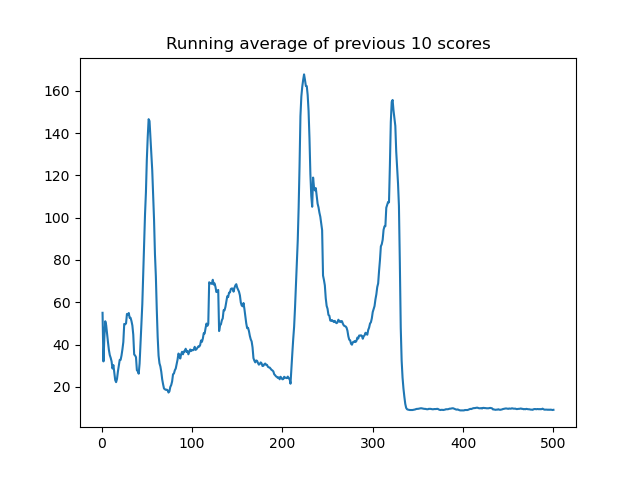
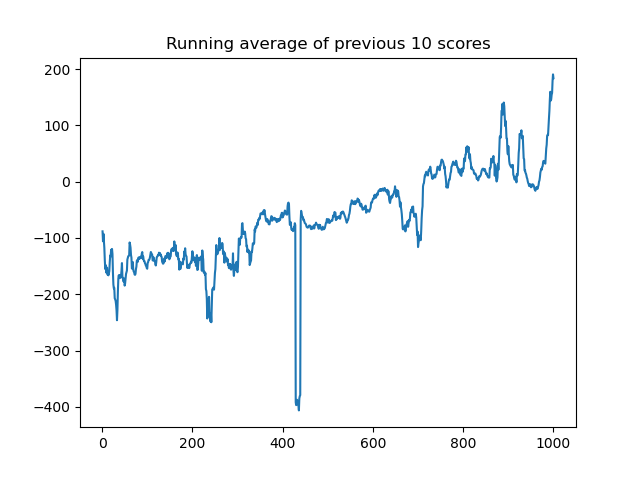
Added better functionality in main script
1. choose from many environments
2. choose whether you want the agent to learn to 'beat' the environment or run a specific number of steps
3. auto generate 1 network and 2 network networks based on environment type (fully connected, or convolutional)
4. choose what agent you want to use

diff --git a/basic_Kyle/rungym.py b/basic_Kyle/rungym.py
@@ -9,48 +9,74 @@ from Agents.agent_mc_2n import Agent_MC_2N
 from Utils.utils import plot_learning_curve
 from Utils.make_envs import make_env
 from Agents.Transition_Cache.transition_cache import Transition_Cache
-from Agents.Networks import cnn, fcx2, fcx2_2n
+from Agents.Networks import fcx2, fcx2_2n, cnn, cnn_2n
 from collections import namedtuple
 
 
 if __name__ == '__main__':
-    # Setup gym environment
-    env = gym.make('CartPole-v1')  # gym.make('LunarLander-v2'), make_env('PongNoFrameskip-v4')
-    n_actions = env.action_space.n
-    state_shape = env.observation_space.shape
-
-    # setup networks
-    # Note: for agent_mc value_network output_dims = 1, for agent_td value_network output_dims = n_actions
-    policy_value_network = fcx2.Network(lr=0.06, input_dim=state_shape, fc1_dims=30, fc2_dims=30, n_actions=n_actions)
-
-    # setup networks
-    policy_network = fcx2_2n.Network(lr=0.006, input_dim=state_shape, fc1_dims=50, fc2_dims=30, output_dims=n_actions)
-    value_network = fcx2_2n.Network(lr=0.01, input_dim=state_shape, fc1_dims=50, fc2_dims=30, output_dims=1)
-
-    # Setup Agent
-    # Single network Agent
-    # agent = Agent_MC(policy_value_network=policy_value_network, trans_cache_size = 100000, 
-                        # gamma = 0.99, TD = False)
-    
-    # Agent with 2 networks
-    agent = Agent_MC_2N(policy_network=policy_network, value_network=value_network, 
-                    trans_cache_size = 100000, gamma = 0.99, TD = False)
-
-
-
-    #agent = Agent_TD(policy_network=policy_network, value_network=value_network, 
-                    #trans_cache_size = 100000, gamma = 0.99, TD = True, epsilon = 0.99,
-                    #eps_min=0.01, eps_dec=5e-4, batch_size=32, replace=1000)
-
-    # Training parameters 
-    score_history = []
-    n_episodes = 500
-
-    # create named tuple for storing transitions
     Transition = namedtuple('Transition', 'episode, transition, state, action, reward, \
                                 next_state, log_prob, expected_value, target_value, done')
+    # =====================================
+    #       Environment Listings
+    # =====================================
+    # CartPole-v1 = 195, MontainCar = -110 LunarLander-v2 = 200, BipedalWalker-v2/Hardcore = 300, CarRacing-v0 = 900
+    # Classic Control
+    CartPole = ['CartPole-v1', 'fc', 195] # learning
+    MountainCar = ['MountainCar-v0', 'fc', -110]  # not learning
+    Pendulum = ['Pendulum-v0', 'fc', None]
 
-    for episode in range(n_episodes):
+    # Box2D
+    LunarLander = ['LunarLander-v2', 'fc', 200] # learning
+    BipedalWalker = ['BipedalWalker-v2', 'fc', 300] 
+    BipedalWalkerHardCore = ['BipedalWalkerHardCore-v2', 'fc', 300]
+    CarRacing = ['CarRacing-v0', 'fc', 900]
+
+    # Atari
+    pong = ['PongNoFrameskip-v4', 'cnn', None]
+    
+    # =====================================
+    #   Choose Environment From Listings
+    # =====================================
+    use_environment = LunarLander
+    beat_environment = True # if true will continue until avg_reward from last 100 episodes >= use_environemnt[2]
+    n_episodes = 1000
+    # creates environment
+    if use_environment[1] == 'fc':
+        env = gym.make(use_environment[0])
+    else:
+        env = make_env(use_environment[0])
+    
+    n_actions = env.action_space.n
+    state_shape = env.observation_space.shape
+    
+    # =====================================
+    #              Setup Networks
+    # =====================================
+    #--- Networks for single network agents ---
+    # fully connected
+    if use_environment[1] == 'fc':
+        policy_value_network = fcx2.Network(lr=0.06, input_dim=state_shape, fc1_dims=30, fc2_dims=30, n_actions=n_actions)
+        policy_network = fcx2_2n.Network(lr=0.006, input_dim=state_shape, fc1_dims=30, fc2_dims=30, output_dims=n_actions)
+        value_network = fcx2_2n.Network(lr=0.01, input_dim=state_shape, fc1_dims=30, fc2_dims=30, output_dims=1)
+    else:
+        policy_value_network = cnn.Network(lr=0.06, input_dims=state_shape, fc1_dims=30, n_actions=n_actions)
+        policy_network = cnn_2n.Network(lr=0.006, input_dims=state_shape, fc1_dims=30, output_dims=n_actions)
+        value_network = cnn_2n.Network(lr=0.01, input_dims=state_shape, fc1_dims=30, output_dims=1)
+        
+    # =====================================
+    #              Setup Agents
+    # =====================================
+    agent_1n = Agent_MC(policy_value_network=policy_value_network, trans_cache_size = 100000, gamma = 0.99, TD = False)
+    agent_2n = Agent_MC_2N(policy_network=policy_network, value_network=value_network, 
+                    trans_cache_size = 100000, gamma = 0.99, TD = False)
+
+    # =====================================
+    #      Choose Agent For Training
+    # =====================================
+    agent = agent_2n
+
+    score_history = []
+    def learning_loop(episode):
         done = False
         score = 0 
         state = env.reset()
@@ -59,18 +85,12 @@ if __name__ == '__main__':
             action, log_prob, expected_value = agent.get_action(state) # choose action to take
             next_state, reward, done, info = env.step(action) # get info from taking that action
             score += reward
-            if agent.TD:
-                agent.learn()
-
             target_value = 0
-            
-            # Transitions are stored in named tuples
             transition = Transition(episode=episode, transition=transition_num, state=state, action=action, 
                                                     reward=reward, next_state=next_state, log_prob=log_prob, 
                                                     expected_value=expected_value, target_value=target_value, done=done)
             agent.store_transition(transition) 
             state = next_state
-            
             if agent.TD:
                 agent.learn()
 
@@ -80,12 +100,38 @@ if __name__ == '__main__':
             agent.learn()
             agent.clear_transition_cache()
 
-        print(f"Episode: {episode}, Score: {score}")
-        score_history.append(score)
+        return score
+        
+    if not beat_environment:
+        for episode in range(n_episodes):
+            score = learning_loop(episode)
+            score_history.append(score)
+            if len(score_history) < 100:
+                average = sum(score_history[-100:]) / len(score_history)
+                print(f"Episode: {episode}, Score: {score}, Avg: {average}")
+            else:
+                average = sum(score_history[-100:]) / 100
+                beat_environment = average <= use_environment[2]
+                print(f"Episode: {episode}, Score: {score}, 100Avg: {average}")
+            
+    else:
+        while beat_environment:
+            episode = len(score_history) + 1
+            score = learning_loop(episode)
+            score_history.append(score)
+            if len(score_history) >= 100:
+                average = sum(score_history[-100:]) / 100
+                beat_environment = average <= use_environment[2]
+                print(f"Episode: {episode}, Score: {score}, 100Avg: {average}")
+            else:
+                average = sum(score_history[-100:]) / len(score_history)
+                print(f"Episode: {episode}, Score: {score}, Avg: {average}")
+                 # when false is returned the environment is beat
 
-    # Output Data
-    plot_name = 'cartpole'
-    figure_file = 'Data/plots/' + plot_name
-    x = [i+1 for i in range(n_episodes)]
+    env.render()
+
+    # plot training data
+    figure_file = 'Data/plots/' + use_environment[0]
+    x = [i+1 for i in range(len(score_history))]
     plot_learning_curve(x, score_history, figure_file)
     

diff --git a/basic_Kyle/Utils/utils.py b/basic_Kyle/Utils/utils.py
@@ -4,7 +4,7 @@ import matplotlib.pyplot as plt
 def plot_learning_curve(x, scores, figure_file):
     running_avg = np.zeros(len(scores))
     for i in range(len(running_avg)):
-        running_avg[i] = np.mean(scores[max(0, i-10):(i+1)])
+        running_avg[i] = np.mean(scores[max(0, i-100):(i+1)])
     plt.plot(x, running_avg)
-    plt.title('Running average of previous 10 scores')
+    plt.title('Running average of previous 100 scores')
     plt.savefig(figure_file)

diff --git a/basic_Kyle/Agents/agent_mc_2n.py b/basic_Kyle/Agents/agent_mc_2n.py
@@ -29,9 +29,6 @@ class Agent_MC_2N():
         action = action_probs.sample()
         log_prob = action_probs.log_prob(action)
         expected_value = self.value_network(observation)
-        
-        # Consistent with learning agent
-        #print(action.item(), log_prob, expected_value.view(-1))
 
         return action.item(), log_prob, expected_value.view(-1)
 
